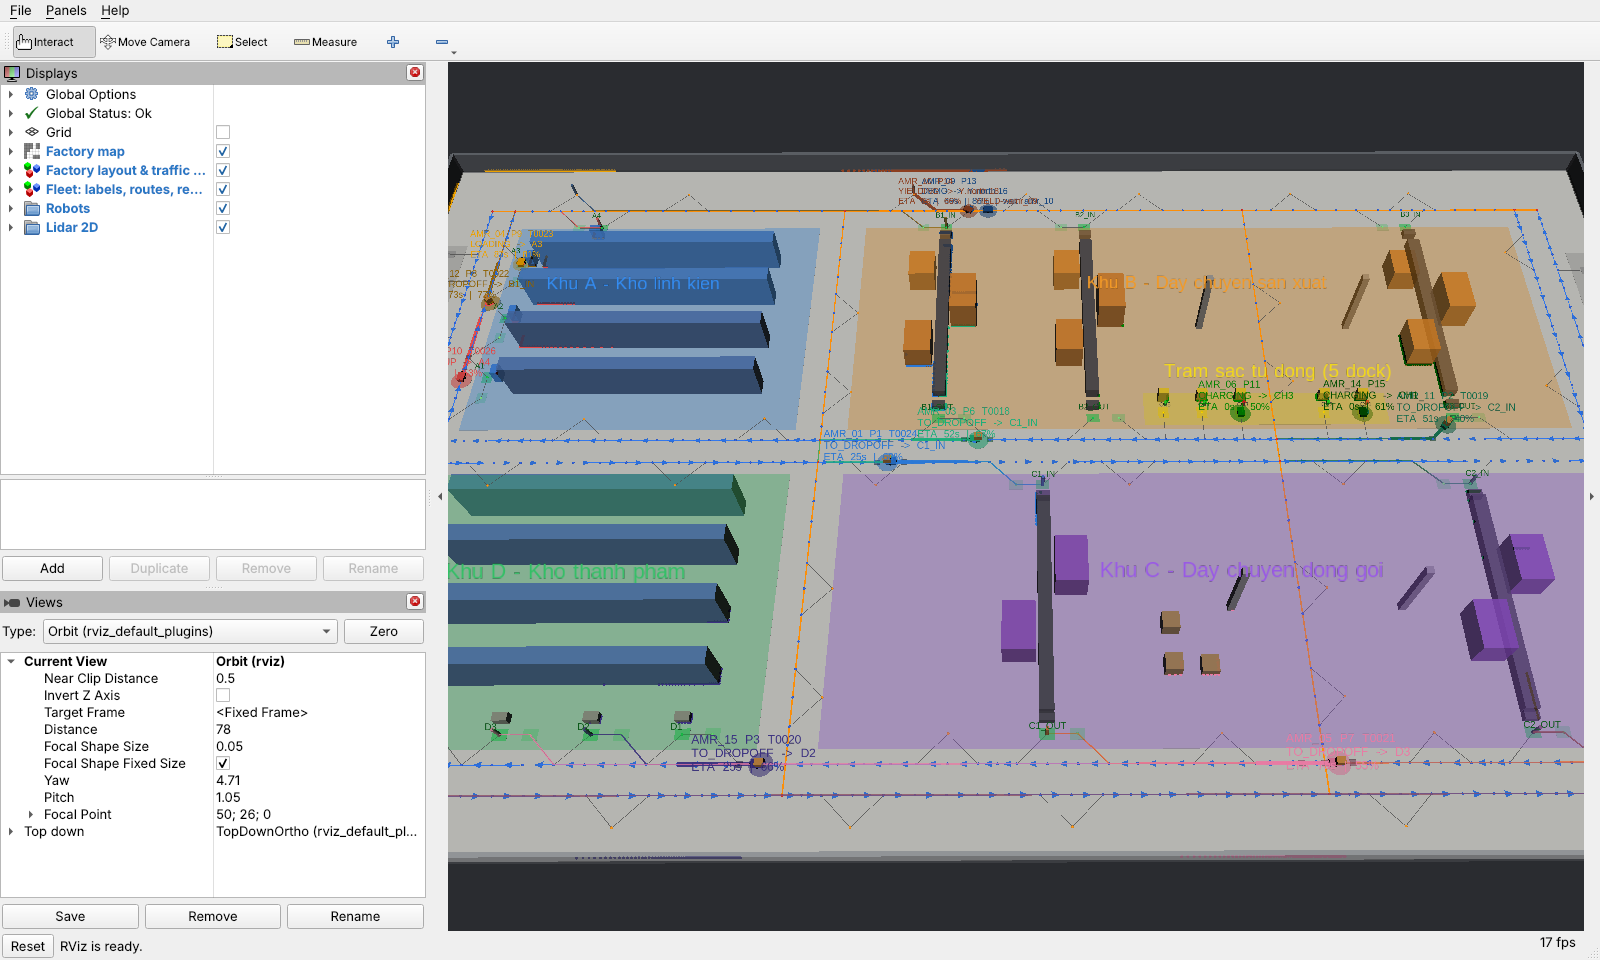
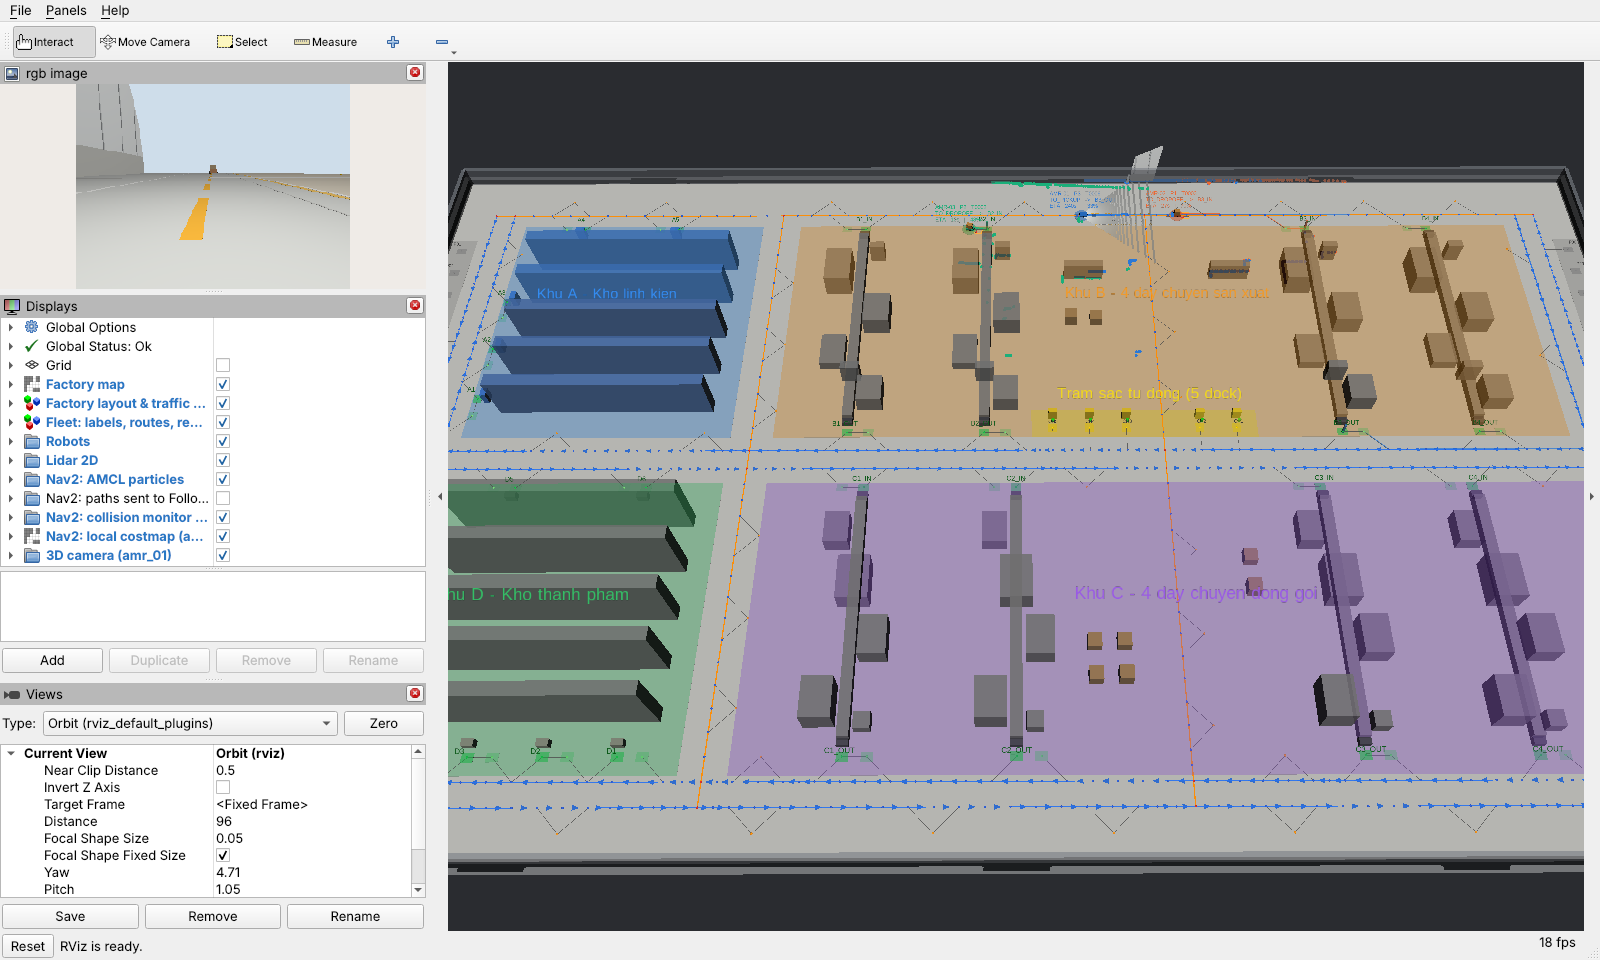
Nav2 arrival and costmap fixes, AMCL tuning, cargo lift PID, new screenshots
- route progress: arrival at the last node within 0.2 m (Nav2 keeps
  approaching to 0.1 m), cancel the goal once aligned
- local costmap: inf lidar ranges clear along the ray, so robots that drove
  away leave no ghost obstacles; clear the costmap after a FollowPath abort
- AMCL: low odometry noise, sharper likelihood field, 180 beams
  (error vs ground truth ~0.12 m along / 0.07 m across the lane)
- collision monitor: per-source timeouts (RGB-D camera renders slowly
  without a GPU)
- cargo lift: force PID (velocity commands do not move the joint in gz-sim 8)
- fleet_agents keeps the robot_agent node names (fleet_params apply)
- lidar clearance computed with numpy
- dashboard explains the task-based rank of the selected robot
- docs: dashboard, RViz and Gazebo screenshots of the Nav2 run

Claude-Session: https://claude.ai/code/session_01AjxY7Qcftyxs4iYRzGLXQF

diff --git a/README.md b/README.md
@@ -15,13 +15,13 @@ Mô phỏng **đội 10–15 AMR (tối đa 30)** vận chuyển nội bộ tron
 * **Dashboard web** (http://localhost:8080): robot số mấy đang làm gì, đi route nào, ETA, task tiếp theo, hàng ưu
   tiên, pin, đang chờ hoặc nhường ai; bản đồ trực tiếp, 8 dây chuyền, trạm sạc, hàng đợi task, nhật ký điều phối.
 
-![Dashboard](docs/dashboard.png)
+![Dashboard: bản đồ trực tiếp, chi tiết AMR-02 (task, lộ trình, ETA, task tiếp theo, lý do hàng ưu tiên)](docs/dashboard.png)
 
 | Gazebo Harmonic: toàn cảnh nhà máy | Gazebo: dây chuyền sản xuất / đóng gói, sản phẩm chạy trên băng tải |
 |---|---|
 | ![gazebo](docs/gazebo_overview.png) | ![lines](docs/gazebo_lines.png) |
 
-| Gazebo: AMR chở hàng (khay nâng) ở kho linh kiện | RViz2: Nav2 (hạt AMCL, vùng an toàn collision monitor, costmap), lộ trình, nhãn robot |
+| Gazebo + Nav2: AMR chở thùng SP (khay nâng) rời B3_OUT sang dây chuyền đóng gói | RViz2: layout, đồ thị giao thông, robot, lidar, nhóm hiển thị Nav2, ảnh camera 3D |
 |---|---|
 | ![closeup](docs/gazebo_closeup.png) | ![rviz](docs/rviz_overview.png) |
 
